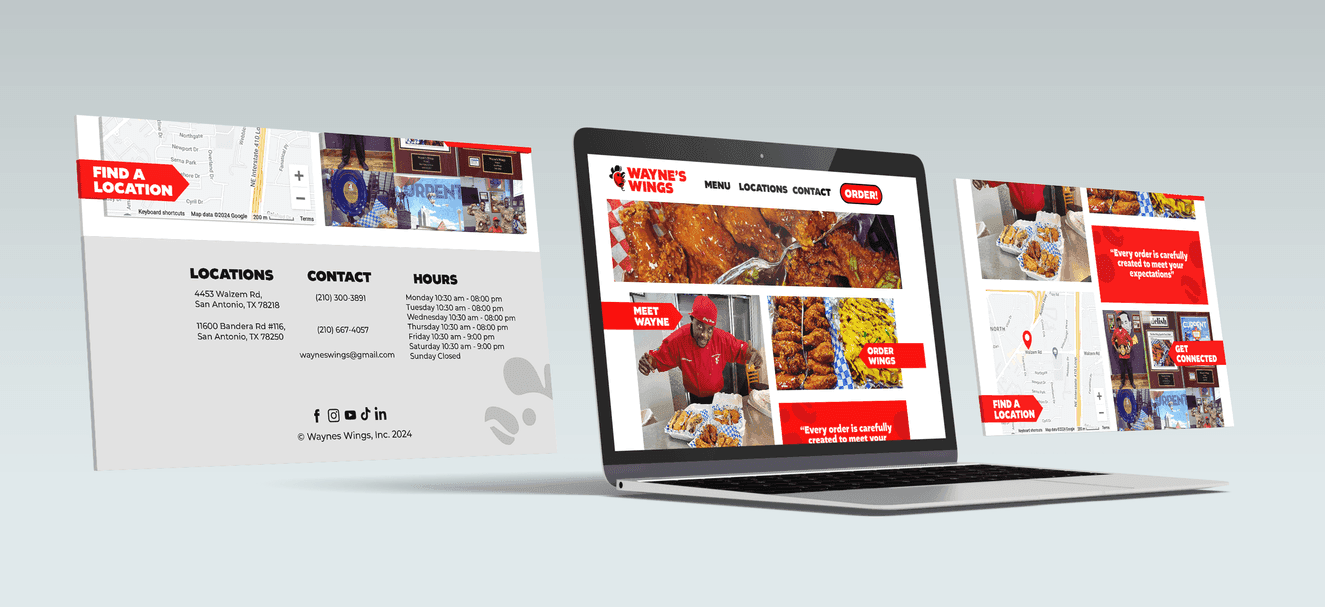
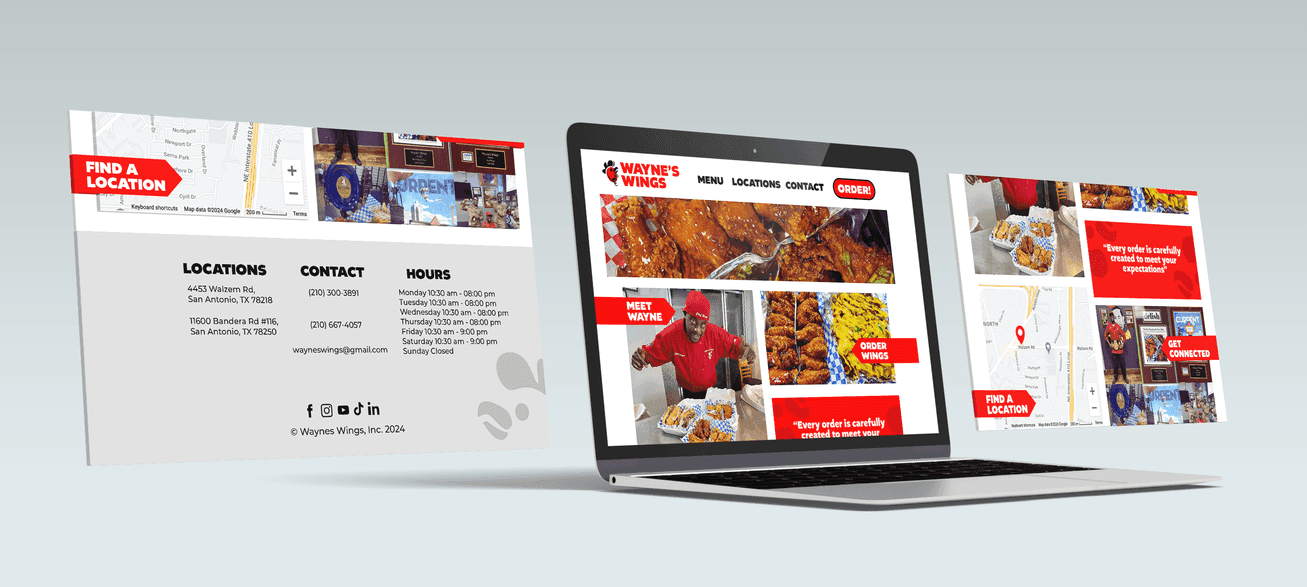
Waynes upadtes

diff --git a/work.html b/work.html
@@ -1447,7 +1447,7 @@
           { src: 'images/Waynes Wings/MainImage.webp', fallback: 'images/Waynes Wings/MainImage.png', fallback: 'images/Waynes Wings/MainImage.png', isPng: false, left: 35, top: 7, rotation: 5, size: 30 },
           { src: 'images/Waynes Wings/lgog.webp', fallback: 'images/Waynes Wings/lgog.png', isPng: false, left: 0, top: 5, rotation: 5, size: 15 },
           { src: 'images/Waynes Wings/Waynes Rebrand-35.webp', fallback: 'images/Waynes Wings/Waynes Rebrand-35.png', fallback: 'images/Waynes Wings/Waynes Rebrand-35.png', isPng: true, left: 5, top: 65, rotation: 0, size: 16 },
-          { src: 'images/Waynes Wings/Websitepsd.webp', fallback: 'images/Waynes Wings/Websitepsd.png', isPng: false, left: 15, top: 39, rotation: 5, size: 35 },
+          { src: 'images/Waynes Wings/Websitepsd.png', fallback: 'images/Waynes Wings/Websitepsd.png', isPng: false, left: 15, top: 39, rotation: 5, size: 30 },
           { src: 'images/Waynes Wings/Takeaway_Box_Mockup_4.webp', fallback: 'images/Waynes Wings/Takeaway_Box_Mockup_4.png', isPng: false, left: 40, top: 65, rotation: 0, size: 18 }
         ],
         about: { 
